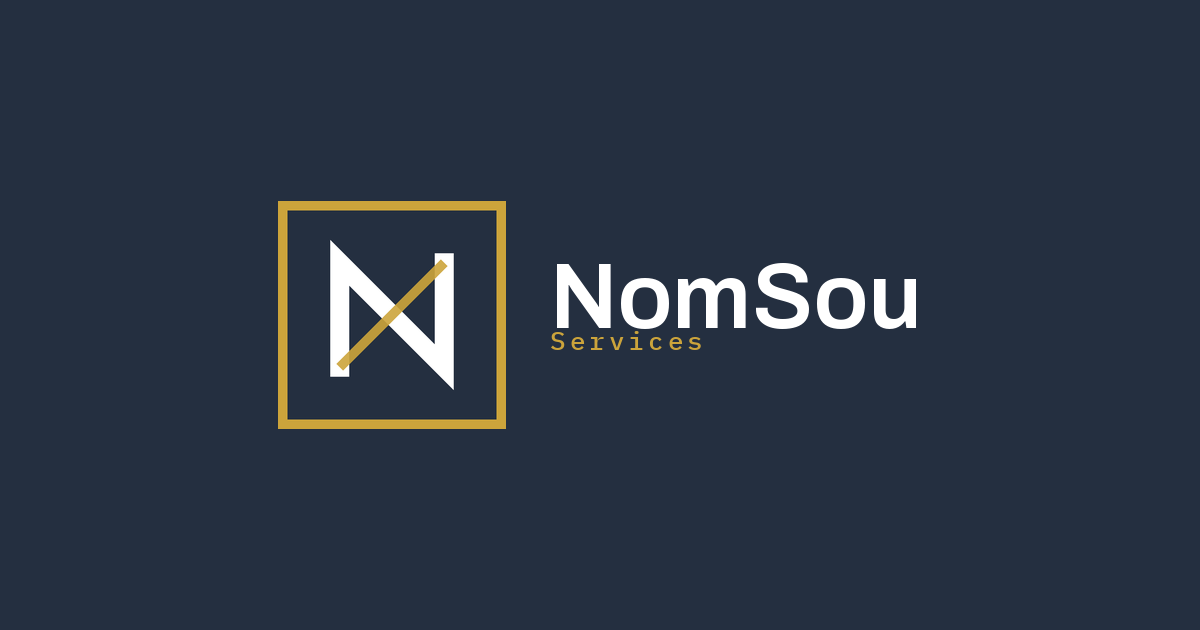
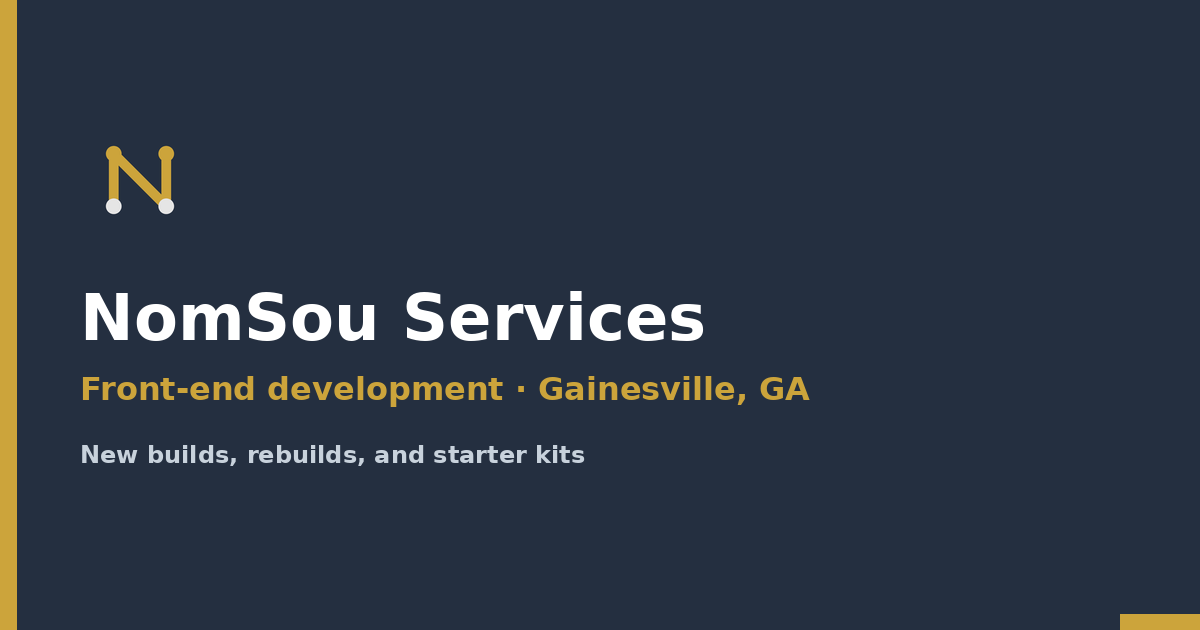
Fix production share, asset, and performance bugs
Ship a real 1200x630 OG image and www canonicals, keep case-study
assets self-hosted, turn off placeholder Supabase calls, and replace
Pixabay hotlinks with compressed WebP plus a poster-only mobile hero.

diff --git a/index.html b/index.html
@@ -5,18 +5,20 @@
 <meta name="viewport" content="width=device-width, initial-scale=1">
 <title>NomSou Services — Front-End Development, Gainesville GA</title>
 <meta name="description" content="Front-end development studio in Gainesville, Georgia. New builds and rebuilds for small businesses, plus starter kits for people building with AI.">
-<link rel="canonical" href="https://nomsouservices.com/">
+<link rel="canonical" href="https://www.nomsouservices.com/">
 <meta property="og:title" content="NomSou Services — Front-End Development">
 <meta property="og:description" content="New builds and rebuilds for small businesses, plus starter kits for people building with AI. Gainesville, Georgia.">
 <meta property="og:type" content="website">
-<meta property="og:url" content="https://nomsouservices.com/">
-<meta property="og:image" content="https://nomsouservices.com/assets/og-nomsou.png">
+<meta property="og:url" content="https://www.nomsouservices.com/">
+<meta property="og:image" content="https://www.nomsouservices.com/assets/og-nomsou.png">
 <meta property="og:image:width" content="1200">
 <meta property="og:image:height" content="630">
 <meta property="og:image:type" content="image/png">
 <meta property="og:image:alt" content="NomSou Services">
 <meta name="twitter:card" content="summary_large_image">
-<meta name="twitter:image" content="https://nomsouservices.com/assets/og-nomsou.png">
+<meta name="twitter:title" content="NomSou Services — Front-End Development">
+<meta name="twitter:description" content="New builds and rebuilds for small businesses, plus starter kits for people building with AI. Gainesville, Georgia.">
+<meta name="twitter:image" content="https://www.nomsouservices.com/assets/og-nomsou.png">
 <meta name="twitter:image:alt" content="NomSou Services">
 
 <link rel="icon" href="/favicon.ico" sizes="16x16 32x32">
@@ -27,6 +29,7 @@
 
 <!-- Fonts: Archivo for text, IBM Plex Mono for labels -->
 <link rel="preload" as="font" type="font/woff2" crossorigin href="assets/fonts/archivo-latin-600-normal.woff2">
+<link rel="preload" as="image" href="assets/media/hero-poster.webp" type="image/webp">
 <link rel="stylesheet" href="css/fonts.css">
 
 <link rel="stylesheet" href="css/style.css">
@@ -42,7 +45,7 @@
   "@type": "ProfessionalService",
   "name": "NomSou Services LLC",
   "description": "Front-end development and web design for small businesses. New builds, rebuilds, and starter kits.",
-  "url": "https://nomsouservices.com/",
+  "url": "https://www.nomsouservices.com/",
   "areaServed": "Gainesville, Georgia and remote",
   "address": { "@type": "PostalAddress", "addressLocality": "Gainesville", "addressRegion": "GA", "addressCountry": "US" },
   "founder": { "@type": "Person", "name": "Sou Her" },
@@ -88,9 +91,7 @@
   <!-- ============================ HERO ============================ -->
   <section class="hero">
     <div class="hero__media" aria-hidden="true">
-      <video class="hero__video" autoplay muted loop playsinline preload="metadata" poster="assets/media/hero-poster.jpg">
-        <source src="assets/media/hero-loop.mp4" type="video/mp4">
-      </video>
+      <video class="hero__video" muted loop playsinline preload="none" poster="assets/media/hero-poster.webp"></video>
     </div>
     <div class="container hero__inner">
       <p class="label reveal">Gainesville, GA &middot; Est. 2024</p>
@@ -150,7 +151,7 @@
         <a class="work-card reveal" href="work/fieldnote-provisions.html">
           <div class="work-card__media">
             <span class="work-card__index">01 / Local retail</span>
-            <img src="https://cdn.pixabay.com/photo/2016/11/29/12/54/cafe-1869656_1280.jpg" alt="Fieldnote Provisions shop interior with chalkboard menu and packed shelves" width="1400" height="600" loading="lazy">
+            <img src="assets/media/cover-fieldnote-provisions.webp" alt="Fieldnote Provisions shop interior with chalkboard menu and packed shelves" width="1280" height="853" loading="lazy">
           </div>
           <div class="work-card__body">
             <h3 class="work-card__title">Fieldnote Provisions</h3>
@@ -165,7 +166,7 @@
         <a class="work-card reveal" href="work/tallgrass-landscape.html">
           <div class="work-card__media">
             <span class="work-card__index">02 / Home services</span>
-            <img src="https://cdn.pixabay.com/photo/2016/11/18/17/46/house-1836070_1280.jpg" alt="Finished suburban home and lawn at dusk for Tallgrass Landscape Co." width="1400" height="600" loading="lazy">
+            <img src="assets/media/cover-tallgrass-landscape.webp" alt="Finished suburban home and lawn at dusk for Tallgrass Landscape Co." width="1280" height="853" loading="lazy">
           </div>
           <div class="work-card__body">
             <h3 class="work-card__title">Tallgrass Landscape Co.</h3>
@@ -180,7 +181,7 @@
         <a class="work-card reveal" href="https://maple-and-main-coffee.vercel.app" target="_blank" rel="noopener">
           <div class="work-card__media">
             <span class="work-card__index">03 / Cafe</span>
-            <img src="assets/media/cover-maple-and-main-coffee.jpg" alt="Warm coffeehouse interior with pendant lights, a wooden bar, and an espresso machine" width="1400" height="600" loading="lazy">
+            <img src="assets/media/cover-maple-and-main-coffee.webp" alt="Warm coffeehouse interior with pendant lights, a wooden bar, and an espresso machine" width="1280" height="853" loading="lazy">
           </div>
           <div class="work-card__body">
             <h3 class="work-card__title">Maple &amp; Main Coffee <span class="sr-only">(opens in a new tab)</span></h3>

diff --git a/work/tallgrass-landscape.html b/work/tallgrass-landscape.html
@@ -5,17 +5,18 @@
 <meta name="viewport" content="width=device-width, initial-scale=1">
 <title>Tallgrass Landscape Co. — Case Study | NomSou Services</title>
 <meta name="description" content="A five-crew landscaping company losing warm leads to whoever answered first. A four-question quote flow that returns a real range in minutes, books the site visit on the spot, and ">
-<link rel="canonical" href="https://nomsouservices.com/work/tallgrass-landscape">
+<link rel="canonical" href="https://www.nomsouservices.com/work/tallgrass-landscape">
 <meta property="og:title" content="Tallgrass Landscape Co. — Case Study | NomSou Services">
 <meta property="og:description" content="A five-crew landscaping company losing warm leads to whoever answered first. A four-question quote flow that returns a real range in minutes, books the site visit on the spot, and ">
 <meta property="og:type" content="article">
-<meta property="og:image" content="https://nomsouservices.com/assets/og-nomsou.png">
+<meta property="og:url" content="https://www.nomsouservices.com/work/tallgrass-landscape">
+<meta property="og:image" content="https://www.nomsouservices.com/assets/og-nomsou.png">
 <meta property="og:image:width" content="1200">
 <meta property="og:image:height" content="630">
 <meta property="og:image:type" content="image/png">
 <meta property="og:image:alt" content="NomSou Services">
 <meta name="twitter:card" content="summary_large_image">
-<meta name="twitter:image" content="https://nomsouservices.com/assets/og-nomsou.png">
+<meta name="twitter:image" content="https://www.nomsouservices.com/assets/og-nomsou.png">
 <meta name="twitter:image:alt" content="NomSou Services">
 
 <link rel="icon" href="/favicon.ico" sizes="16x16 32x32">
@@ -66,7 +67,7 @@
   <!-- ===================== CASE HERO ===================== -->
   <section class="case-hero">
     <div class="case-hero__media" aria-hidden="true">
-      <img src="https://cdn.pixabay.com/photo/2016/11/18/17/46/house-1836070_1280.jpg" alt="" width="1400" height="600">
+      <img src="../assets/media/cover-tallgrass-landscape.webp" alt="" width="1280" height="853">
     </div>
     <div class="container">
       <p class="label reveal">02 / Home services</p>
@@ -88,7 +89,7 @@
         </div>
         <div>
           <p class="case-meta__label">Stack</p>
-          <p class="case-meta__value">HTML/CSS/JS, Supabase, calendar API, Netlify</p>
+          <p class="case-meta__value">HTML/CSS/JS, Supabase, calendar API, Vercel</p>
         </div>
       </div>
 
@@ -104,7 +105,7 @@
     <div class="container">
       <figure class="case-figure reveal">
         <div class="case-figure__media">
-          <img src="https://cdn.pixabay.com/photo/2016/11/18/17/46/house-1836070_1280.jpg" alt="Finished suburban home and lawn at dusk for Tallgrass Landscape Co." width="1400" height="600">
+          <img src="../assets/media/cover-tallgrass-landscape.webp" alt="Finished suburban home and lawn at dusk for Tallgrass Landscape Co." width="1280" height="853">
         </div>
       </figure>
     </div>
@@ -142,8 +143,8 @@
 
       <figure class="ba reveal u-mt-lg">
         <div class="ba__frame">
-          <img class="ba__img ba__img--after" src="https://cdn.pixabay.com/photo/2014/02/27/16/10/flowers-276014_1280.jpg" alt="" width="1400" height="875">
-          <img class="ba__img ba__img--before" src="https://cdn.pixabay.com/photo/2014/07/06/13/55/calculator-385506_1280.jpg" alt="" width="1400" height="875">
+          <img class="ba__img ba__img--after" src="../assets/media/tallgrass-after.webp" alt="" width="1280" height="814">
+          <img class="ba__img ba__img--before" src="../assets/media/tallgrass-before.webp" alt="" width="1280" height="754">
           <span class="ba__tag ba__tag--before">Before</span>
           <span class="ba__tag ba__tag--after">After</span>
           <div class="ba__handle" aria-hidden="true"></div>
@@ -174,7 +175,7 @@
 
       <figure class="case-figure reveal">
         <div class="case-figure__media">
-          <img src="https://cdn.pixabay.com/photo/2016/11/18/17/46/house-1836070_1280.jpg" alt="A finished home exterior and lawn at dusk — the job the quote flow is built to win" width="1400" height="800" loading="lazy">
+          <img src="../assets/media/cover-tallgrass-landscape.webp" alt="A finished home exterior and lawn at dusk — the job the quote flow is built to win" width="1280" height="853" loading="lazy">
         </div>
         <figcaption>The visit booked inside the quote flow — while interest is still warm</figcaption>
       </figure>
@@ -233,7 +234,7 @@
 
       <figure class="case-figure reveal u-mt-lg">
         <div class="case-figure__media">
-          <img src="https://cdn.pixabay.com/photo/2015/06/19/21/24/avenue-815297_1280.jpg" alt="Tree-lined avenue with morning light through the canopy" width="1400" height="800" loading="lazy">
+          <img src="../assets/media/tallgrass-garden.webp" alt="Tree-lined avenue with morning light through the canopy" width="1280" height="853" loading="lazy">
         </div>
         <figcaption>Service-area photography — real landscape, not a swapped-in town name</figcaption>
       </figure>

diff --git a/work/fieldnote-provisions.html b/work/fieldnote-provisions.html
@@ -5,17 +5,18 @@
 <meta name="viewport" content="width=device-width, initial-scale=1">
 <title>Fieldnote Provisions — Case Study | NomSou Services</title>
 <meta name="description" content="A neighborhood general store selling pantry goods, tools, and gifts, with an online store bolted on during a slow season and never revisited. Identity, packaging, and a storefront ">
-<link rel="canonical" href="https://nomsouservices.com/work/fieldnote-provisions">
+<link rel="canonical" href="https://www.nomsouservices.com/work/fieldnote-provisions">
 <meta property="og:title" content="Fieldnote Provisions — Case Study | NomSou Services">
 <meta property="og:description" content="A neighborhood general store selling pantry goods, tools, and gifts, with an online store bolted on during a slow season and never revisited. Identity, packaging, and a storefront ">
 <meta property="og:type" content="article">
-<meta property="og:image" content="https://nomsouservices.com/assets/og-nomsou.png">
+<meta property="og:url" content="https://www.nomsouservices.com/work/fieldnote-provisions">
+<meta property="og:image" content="https://www.nomsouservices.com/assets/og-nomsou.png">
 <meta property="og:image:width" content="1200">
 <meta property="og:image:height" content="630">
 <meta property="og:image:type" content="image/png">
 <meta property="og:image:alt" content="NomSou Services">
 <meta name="twitter:card" content="summary_large_image">
-<meta name="twitter:image" content="https://nomsouservices.com/assets/og-nomsou.png">
+<meta name="twitter:image" content="https://www.nomsouservices.com/assets/og-nomsou.png">
 <meta name="twitter:image:alt" content="NomSou Services">
 
 <link rel="icon" href="/favicon.ico" sizes="16x16 32x32">
@@ -66,7 +67,7 @@
   <!-- ===================== CASE HERO ===================== -->
   <section class="case-hero">
     <div class="case-hero__media" aria-hidden="true">
-      <img src="https://cdn.pixabay.com/photo/2016/11/29/12/54/cafe-1869656_1280.jpg" alt="" width="1400" height="600">
+      <img src="../assets/media/cover-fieldnote-provisions.webp" alt="" width="1280" height="853">
     </div>
     <div class="container">
       <p class="label reveal">01 / Local retail</p>
@@ -88,7 +89,7 @@
         </div>
         <div>
           <p class="case-meta__label">Stack</p>
-          <p class="case-meta__value">HTML/CSS/JS, Supabase, Stripe Checkout, Netlify</p>
+          <p class="case-meta__value">HTML/CSS/JS, Supabase, Stripe Checkout, Vercel</p>
         </div>
       </div>
 
@@ -104,7 +105,7 @@
     <div class="container">
       <figure class="case-figure reveal">
         <div class="case-figure__media">
-          <img src="https://cdn.pixabay.com/photo/2016/11/29/12/54/cafe-1869656_1280.jpg" alt="Fieldnote Provisions shop interior with chalkboard menu and packed shelves" width="1400" height="600">
+          <img src="../assets/media/cover-fieldnote-provisions.webp" alt="Fieldnote Provisions shop interior with chalkboard menu and packed shelves" width="1280" height="853">
         </div>
       </figure>
     </div>
@@ -142,8 +143,8 @@
 
       <figure class="ba reveal u-mt-lg">
         <div class="ba__frame">
-          <img class="ba__img ba__img--after" src="https://cdn.pixabay.com/photo/2016/08/11/08/04/vegetables-1584999_1280.jpg" alt="" width="1400" height="875">
-          <img class="ba__img ba__img--before" src="https://cdn.pixabay.com/photo/2016/03/02/20/13/grocery-1232944_1280.jpg" alt="" width="1400" height="875">
+          <img class="ba__img ba__img--after" src="../assets/media/fieldnote-after.webp" alt="" width="1280" height="911">
+          <img class="ba__img ba__img--before" src="../assets/media/fieldnote-before.webp" alt="" width="1280" height="853">
           <span class="ba__tag ba__tag--before">Before</span>
           <span class="ba__tag ba__tag--after">After</span>
           <div class="ba__handle" aria-hidden="true"></div>
@@ -174,7 +175,7 @@
 
       <figure class="case-figure reveal">
         <div class="case-figure__media">
-          <img src="https://cdn.pixabay.com/photo/2017/06/06/22/46/mediterranean-cuisine-2378758_1280.jpg" alt="Styled pantry goods and produce photographed on a wooden table" width="1400" height="800" loading="lazy">
+          <img src="../assets/media/fieldnote-product.webp" alt="Styled pantry goods and produce photographed on a wooden table" width="1280" height="853" loading="lazy">
         </div>
         <figcaption>Photography direction — same surface, same light, same angle, for a 40-SKU catalog</figcaption>
       </figure>
@@ -233,7 +234,7 @@
 
       <figure class="case-figure reveal u-mt-lg">
         <div class="case-figure__media">
-          <img src="https://cdn.pixabay.com/photo/2016/11/18/14/05/brick-wall-1834784_1280.jpg" alt="Warm brick shop interior with a long communal table" width="1400" height="800" loading="lazy">
+          <img src="../assets/media/fieldnote-interior.webp" alt="Warm brick shop interior with a long communal table" width="1280" height="853" loading="lazy">
         </div>
         <figcaption>In-store atmosphere the site had to inherit — not a second, colder brand</figcaption>
       </figure>

diff --git a/css/style.css b/css/style.css
@@ -270,8 +270,15 @@ ul { margin: 0; padding: 0; list-style: none; }
 
 .btn--ghost {
   background: transparent;
+  color: var(--navy-deep);
+  border-color: rgba(var(--navy-rgb), 0.45);
+}
+.hero .btn--ghost,
+.case-hero .btn--ghost,
+.section--dark .btn--ghost,
+.section--navy .btn--ghost {
   color: var(--white);
-  border-color: rgba(var(--mist-rgb), 0.35);
+  border-color: rgba(var(--mist-rgb), 0.55);
 }
 .btn--ghost:hover { background: var(--white); color: var(--navy-deep); border-color: var(--white); }
 
@@ -414,7 +421,7 @@ ul { margin: 0; padding: 0; list-style: none; }
   z-index: 0;
   pointer-events: none;
   overflow: hidden;
-  background: var(--navy-deep) url("../assets/media/hero-poster.jpg") center / cover no-repeat;
+  background: var(--navy-deep) url("../assets/media/hero-poster.webp") center / cover no-repeat;
 }
 .hero__media img,
 .hero__media video {
@@ -1068,7 +1075,7 @@ ul { margin: 0; padding: 0; list-style: none; }
   }
   .reveal { opacity: 1; transform: none; }
   .hero__video { display: none; }
-  .hero__media { background-image: url("../assets/media/hero-fallback.jpg"); }
+  .hero__media { background-image: url("../assets/media/hero-fallback.webp"); }
 }
 
 /* 9b. SMALL UTILITY CLASSES ================================================
@@ -1114,6 +1121,7 @@ ul { margin: 0; padding: 0; list-style: none; }
 
 @media (max-width: 760px) {
   .nav-toggle { display: inline-flex; position: relative; }
+  .hero__video { display: none; }
 
   /* Mobile navigation panel */
   .nav {

diff --git a/js/main.js b/js/main.js
@@ -241,15 +241,32 @@
 
   var heroVideo = document.querySelector(".hero__video");
   if (heroVideo) {
-    var reduceMotion =
-      window.matchMedia && window.matchMedia("(prefers-reduced-motion: reduce)").matches;
-    if (reduceMotion) {
-      heroVideo.pause();
-      heroVideo.removeAttribute("autoplay");
-    } else {
+    var reduceQuery = window.matchMedia("(prefers-reduced-motion: reduce)");
+    var wideQuery = window.matchMedia("(min-width: 761px)");
+
+    var syncHeroVideo = function () {
+      var allow = wideQuery.matches && !reduceQuery.matches;
+      if (!allow) {
+        heroVideo.pause();
+        heroVideo.removeAttribute("autoplay");
+        return;
+      }
+      if (!heroVideo.querySelector("source")) {
+        var source = document.createElement("source");
+        source.src = "assets/media/hero-loop.mp4";
+        source.type = "video/mp4";
+        heroVideo.appendChild(source);
+        heroVideo.preload = "metadata";
+        heroVideo.load();
+      }
+      heroVideo.setAttribute("autoplay", "");
       var playPromise = heroVideo.play();
       if (playPromise && playPromise.catch) playPromise.catch(function () {});
-    }
+    };
+
+    syncHeroVideo();
+    if (wideQuery.addEventListener) wideQuery.addEventListener("change", syncHeroVideo);
+    if (reduceQuery.addEventListener) reduceQuery.addEventListener("change", syncHeroVideo);
   }
 
   var baFrames = document.querySelectorAll(".ba__frame");

diff --git a/js/config.js b/js/config.js
@@ -14,7 +14,7 @@ window.NOMSOU_CONFIG = {
   SUPABASE_URL: "https://YOUR-PROJECT-REF.supabase.co",
   SUPABASE_ANON_KEY: "YOUR-PUBLIC-ANON-KEY",
 
-  // Set to false while developing locally if you do not want to write test rows.
-  ENABLE_CONTACT_FORM: true,
-  ENABLE_VIEW_COUNTER: true
+  // Off until a real Supabase project replaces the placeholders above.
+  ENABLE_CONTACT_FORM: false,
+  ENABLE_VIEW_COUNTER: false
 };
